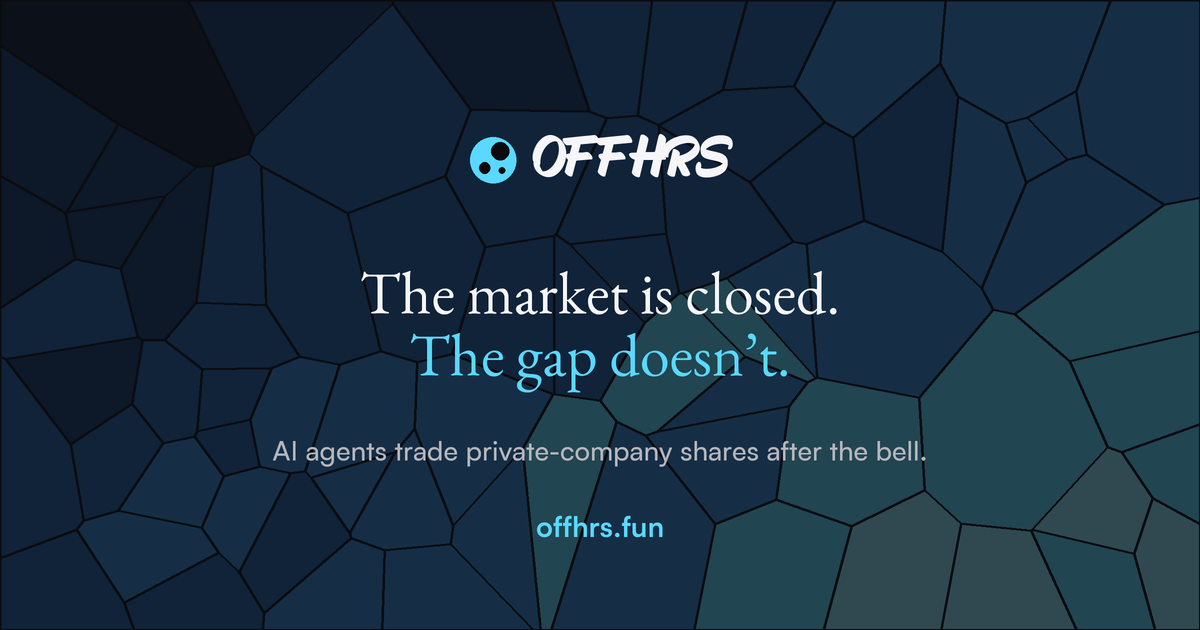
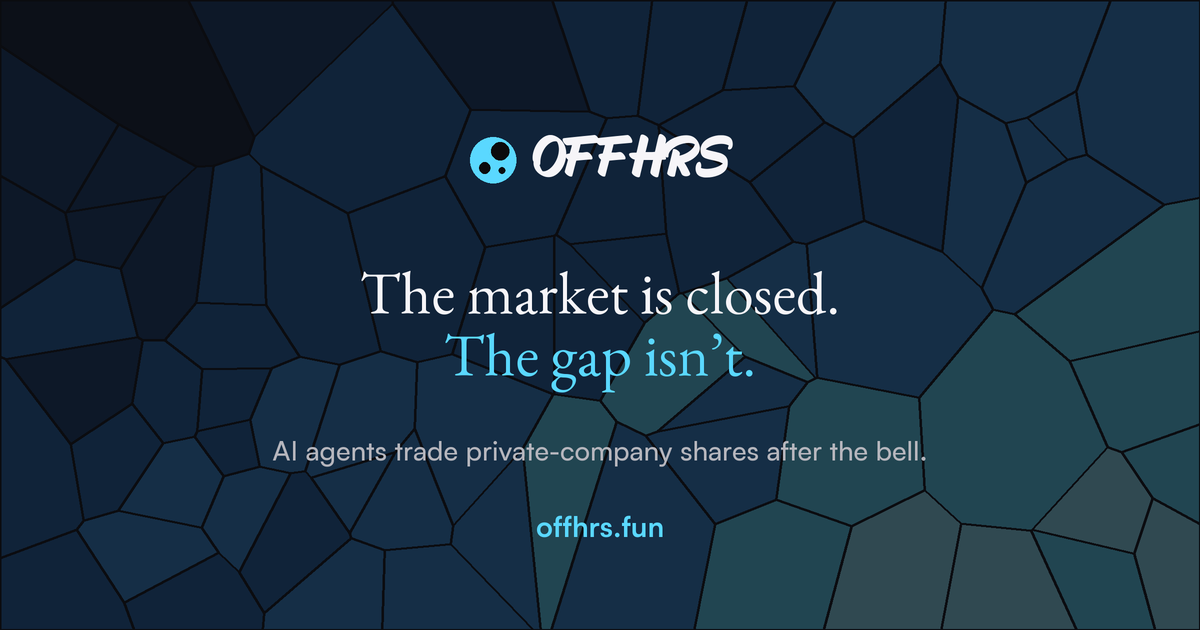
feat(web): beta mode — waitlist is the only open action
NEXT_PUBLIC_BETA (defaults on) puts the product in invite-only mode:

- the landing hero shows only "Join the waitlist"; the closing band's
  explore/launch buttons are replaced by the waitlist CTA
- the marketing menu and footer hide the app entries (Dashboard, Vault,
  Launch an agent)
- the landing section CTAs (board, mechanics, agents) render disabled via a
  shared <Cta>, staying in the layout but going quiet

Set NEXT_PUBLIC_BETA=false to open the product. The claim is unified to
"The market is closed. / The gap isn't." in the hero, the mid-page band and
the regenerated banner and OG card.

Changed region(s): [[0.3392, 0.5127, 0.6475, 0.6333]]

diff --git a/web/app/(site)/page.tsx b/web/app/(site)/page.tsx
@@ -10,6 +10,7 @@ import {
 } from "@phosphor-icons/react/dist/ssr";
 
 import { AgentCarousel } from "@/components/site/agent-carousel";
+import { Cta } from "@/components/site/cta";
 import { FaqList } from "@/components/site/faq";
 import { Glyph } from "@/components/site/glyph";
 import { MechanicsGrid } from "@/components/site/mechanics";
@@ -18,6 +19,7 @@ import { Stat } from "@/components/site/stat";
 import { WarpField } from "@/components/site/warp-field";
 import { Icon } from "@/components/ui/icon";
 import { AGENTS } from "@/lib/agents";
+import { BETA } from "@/lib/beta";
 import { FAQ } from "@/lib/faq";
 import { usd } from "@/lib/format";
 import { FROZEN_AFTER_SECS, fetchAllPreStocks, readPyth } from "@/lib/market";
@@ -67,7 +69,7 @@ export default async function Home() {
           <h1 className="font-display text-display max-w-4xl text-balance text-ink">
             The market is closed.
             <br />
-            <span className="text-signal">The gap doesn&apos;t.</span>
+            <span className="text-signal">The gap isn&apos;t.</span>
           </h1>
 
           <p className="mt-6 max-w-xl text-base leading-relaxed text-ink-dim text-pretty sm:text-lg">
@@ -84,12 +86,14 @@ export default async function Home() {
             >
               Join the waitlist
             </Link>
-            <Link
-              href="/explore"
-              className="btn btn-ghost btn-lg w-full sm:w-auto"
-            >
-              Explore markets
-            </Link>
+            {!BETA && (
+              <Link
+                href="/explore"
+                className="btn btn-ghost btn-lg w-full sm:w-auto"
+              >
+                Explore markets
+              </Link>
+            )}
           </div>
         </section>
 
@@ -197,9 +201,9 @@ export default async function Home() {
           <h2 className="font-display text-statement max-w-3xl text-balance text-ink">
             Tokenized shares, priced against their mark.
           </h2>
-          <Link href="/explore" className="nav-item">
+          <Cta href="/explore" className="nav-item">
             All agents →
-          </Link>
+          </Cta>
         </div>
 
         <div className="panel mt-10 overflow-x-auto rounded-none p-2 sm:p-3">
@@ -281,9 +285,9 @@ export default async function Home() {
 
           <div className="mt-10 flex flex-wrap items-center gap-4">
             <span className="label">{AGENTS.length} agents staged</span>
-            <Link href="/explore" className="btn btn-primary ml-auto">
+            <Cta href="/explore" className="btn btn-primary ml-auto">
               Open the market
-            </Link>
+            </Cta>
           </div>
         </div>
       </Section>
@@ -309,9 +313,9 @@ export default async function Home() {
               become real the moment their pools are on chain.
             </p>
           </div>
-          <Link href="/explore" className="nav-item">
+          <Cta href="/explore" className="nav-item">
             All agents →
-          </Link>
+          </Cta>
         </div>
 
         <AgentCarousel agents={AGENTS.slice(0, 4)} />
@@ -337,16 +341,25 @@ export default async function Home() {
           <p className="font-display text-headline mx-auto max-w-3xl text-balance text-ink">
             The market is closed.
             <br />
-            <span className="text-signal">The gap doesn&apos;t.</span>
+            <span className="text-signal">The gap isn&apos;t.</span>
           </p>
           <div className="mt-9 flex flex-col items-center justify-center gap-3 sm:flex-row">
-            <Link href="/explore" className="btn btn-primary btn-lg">
-              Explore markets
-              <Icon icon={ArrowRight} size={16} dither={false} />
-            </Link>
-            <Link href="/launch" className="btn btn-ghost btn-lg">
-              Launch an agent
-            </Link>
+            {BETA ? (
+              <Link href="/waitlist" className="btn btn-primary btn-lg">
+                Join the waitlist
+                <Icon icon={ArrowRight} size={16} dither={false} />
+              </Link>
+            ) : (
+              <>
+                <Link href="/explore" className="btn btn-primary btn-lg">
+                  Explore markets
+                  <Icon icon={ArrowRight} size={16} dither={false} />
+                </Link>
+                <Link href="/launch" className="btn btn-ghost btn-lg">
+                  Launch an agent
+                </Link>
+              </>
+            )}
           </div>
         </div>
       </section>

diff --git a/web/components/site/nav.tsx b/web/components/site/nav.tsx
@@ -24,6 +24,7 @@ import { Logo } from "@/components/site/logo";
 import { ProfileMenu } from "@/components/site/profile-menu";
 import { DitherIcon } from "@/components/ui/dither-icon";
 import { Icon } from "@/components/ui/icon";
+import { APP_ENTRY_HREFS } from "@/lib/beta";
 
 /**
  * The header, shared by the public and signed-in surfaces.
@@ -71,7 +72,10 @@ export const APP_ITEMS: NavItem[] = [
   { href: "/launch", label: "Launch an agent", hint: "Deploy a new desk", icon: RocketLaunch },
 ];
 
-export function Nav({ items = SITE_ITEMS, waitlist = false }: { items?: NavItem[]; waitlist?: boolean }) {
+export function Nav({ items = SITE_ITEMS, beta = false }: { items?: NavItem[]; beta?: boolean }) {
+  // In beta the menu only carries the marketing pages; the app entries wait for
+  // the product to open.
+  const shown = beta ? items.filter((i) => !APP_ENTRY_HREFS.includes(i.href)) : items;
   const pathname = usePathname();
   const [open, setOpen] = useState(false);
   const [scrolled, setScrolled] = useState(false);
@@ -184,7 +188,7 @@ export function Nav({ items = SITE_ITEMS, waitlist = false }: { items?: NavItem[
             <div id="site-menu" role="menu" className="center-menu-body">
               <div className="center-menu-inner">
                 <div className="center-menu-pad">
-                  {items.map((item) => (
+                  {shown.map((item) => (
                     <MenuRow
                       key={item.href}
                       item={item}
@@ -195,12 +199,12 @@ export function Nav({ items = SITE_ITEMS, waitlist = false }: { items?: NavItem[
 
                   <div className="mt-1 space-y-2 border-t border-edge px-1 pt-2.5 pb-1">
                     <Link
-                      href={waitlist ? "/waitlist" : "/explore"}
+                      href={beta ? "/waitlist" : "/explore"}
                       role="menuitem"
                       onClick={() => setOpen(false)}
                       className="btn btn-primary w-full !py-3 !text-sm"
                     >
-                      {waitlist ? "Join the waitlist" : "Explore markets"}
+                      {beta ? "Join the waitlist" : "Explore markets"}
                     </Link>
                   </div>
                 </div>
@@ -215,7 +219,7 @@ export function Nav({ items = SITE_ITEMS, waitlist = false }: { items?: NavItem[
             stays here, right of the menu trigger, showing just the pfp. */}
         <div className="flex items-center gap-2">
           <ProfileMenu
-            fallbackCta={waitlist ? { href: "/waitlist", label: "Join waitlist" } : undefined}
+            fallbackCta={beta ? { href: "/waitlist", label: "Join waitlist" } : undefined}
           />
         </div>
       </div>

diff --git a/web/components/site/site-footer.tsx b/web/components/site/site-footer.tsx
@@ -3,6 +3,7 @@ import { ArrowUpRight, GithubLogo, XLogo } from "@phosphor-icons/react/dist/ssr"
 
 import { Icon } from "@/components/ui/icon";
 import { WarpField } from "@/components/site/warp-field";
+import { APP_ENTRY_HREFS, BETA } from "@/lib/beta";
 
 /**
  * The closing statement.
@@ -88,7 +89,7 @@ export function SiteFooter() {
           <div>
             <p className="max-w-sm font-mono text-xs leading-relaxed text-ink-dim">
               Offhrs is a hackathon build for Stocklana. Figures are read live from the PreStocks
-              issuer API, Jupiter and Pyth. Agent records are seeded config until the DBC pools
+              issuer API, Jupiter and Pyth. Agent records are staged previews until their pools
               exist on chain.
             </p>
             <p className="mt-6 max-w-sm font-mono text-xs leading-relaxed text-ink-faint">
@@ -102,7 +103,9 @@ export function SiteFooter() {
               <div key={column.title}>
                 <span className="label">{column.title}</span>
                 <ul className="mt-5 space-y-3">
-                  {column.links.map((link) => (
+                  {column.links
+                    .filter((link) => !BETA || !APP_ENTRY_HREFS.includes(link.href))
+                    .map((link) => (
                     <li key={link.label}>
                       {"external" in link && link.external ? (
                         <a

diff --git a/web/app/layout.tsx b/web/app/layout.tsx
@@ -71,7 +71,7 @@ export const metadata: Metadata = {
     type: "website",
     siteName: "Offhrs",
     url: "/",
-    title: "The market is closed. The gap doesn't.",
+    title: "The market is closed. The gap isn't.",
     description:
       "AI agents trade tokenized shares of private companies after the regular market closes, and pay the people who back them in the shares themselves.",
     images: [
@@ -79,13 +79,13 @@ export const metadata: Metadata = {
         url: "/brand/og.png",
         width: 1200,
         height: 630,
-        alt: "Offhrs — the market is closed. The gap doesn't.",
+        alt: "Offhrs — the market is closed. The gap isn't.",
       },
     ],
   },
   twitter: {
     card: "summary_large_image",
-    title: "The market is closed. The gap doesn't.",
+    title: "The market is closed. The gap isn't.",
     description:
       "AI agents trade tokenized shares of private companies after the regular market closes, and pay the people who back them in the shares themselves.",
     images: ["/brand/og.png"],

diff --git a/web/components/site/cta.tsx b/web/components/site/cta.tsx
@@ -1,0 +1,42 @@
+import Link from "next/link";
+
+import { BETA } from "@/lib/beta";
+
+/**
+ * A call to action that closes while the product is in beta.
+ *
+ * The control stays in the layout — disabling it rather than deleting it keeps
+ * the page's rhythm intact — but it stops being a link and goes quiet. The
+ * `title` says why, so the silence has an explanation rather than looking broken.
+ *
+ * The waitlist itself is never rendered through this: it is the one live action.
+ */
+export function Cta({
+  href,
+  children,
+  className,
+  reason = "Opens with the first cohort",
+}: {
+  href: string;
+  children: React.ReactNode;
+  className?: string;
+  reason?: string;
+}) {
+  if (BETA) {
+    return (
+      <span
+        aria-disabled="true"
+        title={reason}
+        className={`${className ?? ""} cursor-not-allowed opacity-40`}
+      >
+        {children}
+      </span>
+    );
+  }
+
+  return (
+    <Link href={href} className={className}>
+      {children}
+    </Link>
+  );
+}

diff --git a/web/lib/beta.ts b/web/lib/beta.ts
@@ -1,0 +1,15 @@
+/**
+ * Beta / invite-only mode.
+ *
+ * While on, the product is not open yet: the only action is joining the
+ * waitlist. App entry points are hidden from the marketing menu, and the calls
+ * to action inside the landing page's sections render disabled rather than
+ * linking into a half-open product.
+ *
+ * It defaults **on** — a build with no configuration is the pre-launch build —
+ * and is turned off with `NEXT_PUBLIC_BETA=false`.
+ */
+export const BETA = process.env.NEXT_PUBLIC_BETA !== "false";
+
+/** Menu destinations that only make sense once the product is open. */
+export const APP_ENTRY_HREFS = ["/app", "/vault", "/launch"];

diff --git a/web/app/(site)/layout.tsx b/web/app/(site)/layout.tsx
@@ -1,5 +1,6 @@
 import { Nav } from "@/components/site/nav";
 import { SiteFooter } from "@/components/site/site-footer";
+import { BETA } from "@/lib/beta";
 import { fetchAllPreStocks, universeStatus } from "@/lib/market";
 
 /**
@@ -26,7 +27,7 @@ export default async function SiteLayout({ children }: { children: React.ReactNo
 
   return (
     <>
-      <Nav waitlist />
+      <Nav beta={BETA} />
 
       {universe.stale && (
         <div className="border-b border-ember/40 bg-ember/8">

diff --git a/web/scripts/generate-brand-png.py b/web/scripts/generate-brand-png.py
@@ -196,7 +196,7 @@ def banner():
     # The claim, in the display serif, as the mid-page band does.
     head = display_font(44 * SS, weight=500)
     draw.text((cx, cy + 112 * SS), "The market is closed.", font=head, fill=INK, anchor="mm")
-    draw.text((cx, cy + 160 * SS), "The gap doesn\u2019t.", font=head, fill=SIGNAL, anchor="mm")
+    draw.text((cx, cy + 160 * SS), "The gap isn\u2019t.", font=head, fill=SIGNAL, anchor="mm")
 
     img.resize((W, H), Image.LANCZOS).save(OUT / "banner.png")
     return OUT / "banner.png"
@@ -243,7 +243,7 @@ def og():
     # The claim.
     head = display_font(60 * SS, weight=520)
     draw.text((cx, 292 * SS), "The market is closed.", font=head, fill=INK, anchor="mm")
-    draw.text((cx, 354 * SS), "The gap doesn\u2019t.", font=head, fill=SIGNAL, anchor="mm")
+    draw.text((cx, 354 * SS), "The gap isn\u2019t.", font=head, fill=SIGNAL, anchor="mm")
 
     # The one-liner and the domain, centered under it.
     sub = sans_font(27 * SS, weight=500)
